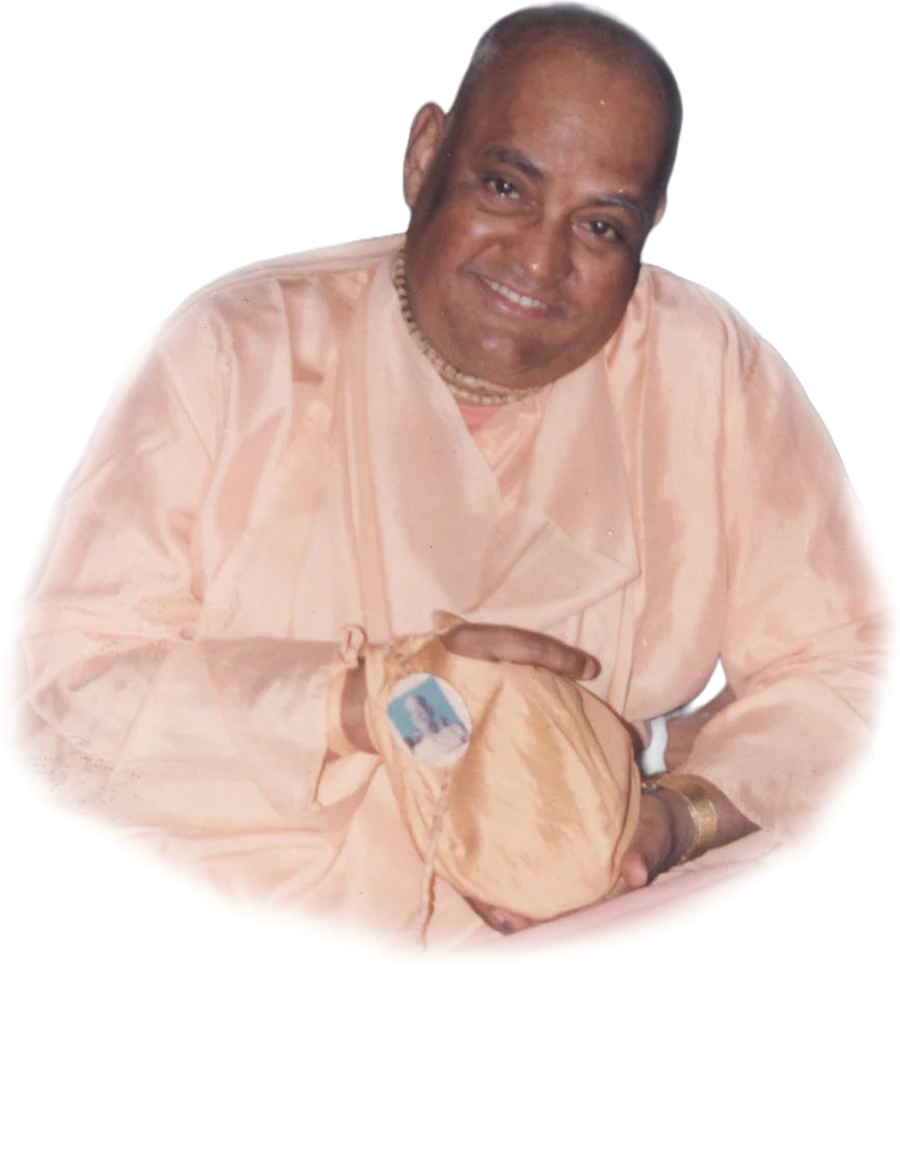
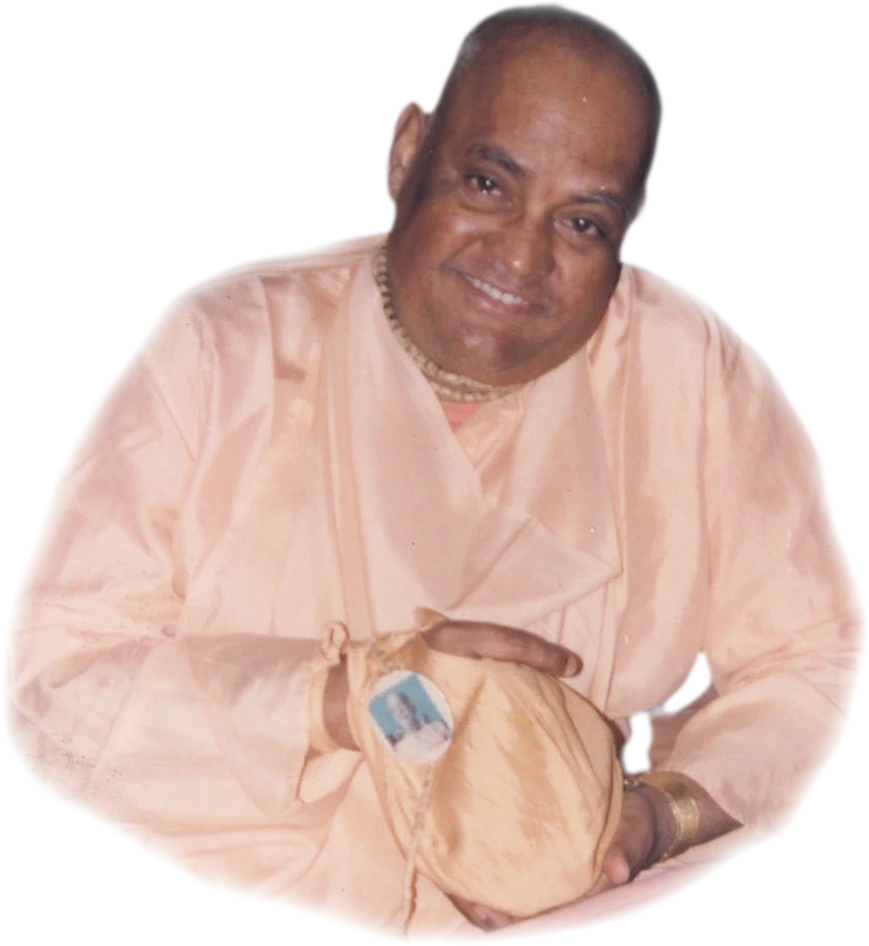
Home: light blessing section with full conversation and letter; cleaner cut-outs; shared Prabhupada texts
Claude-Session: https://claude.ai/code/session_01M9BBQeXddFLEpid5KwEKJu

diff --git a/src/components/home-client.tsx b/src/components/home-client.tsx
@@ -3,6 +3,7 @@ import Link from "next/link";
 import { useRouter } from "next/navigation";
 import { useEffect, useRef, useState } from "react";
 import { ArrowRight, Search, Play, Pause, ChevronLeft, ChevronRight, Headphones, Quote as QuoteIcon, Copy, Check, PlayCircle } from "lucide-react";
+import { CONVERSATION, LETTER } from "@/lib/prabhupada";
 import { DIARY, IMG, LANGUAGES, QUOTE_OF_DAY, TIMELINE } from "@/lib/data";
 import { Img } from "./img";
 import { CutOut, Orn, Padma, PaisleyField, Petals, Rosette, LogoMark } from "./motifs";
@@ -275,37 +276,46 @@ export function WavePlayer() {
 }
 
 /* ------------------------------------------------------------ Blessing */
+const hl = (t: string) => t.split(/(«[^»]+»)/).map((x, k) => x.startsWith("«") ? <mark key={k} className="rounded bg-[#f6d58e]/70 px-1 font-semibold text-ink">{x.slice(1, -1)}</mark> : <span key={k}>{x}</span>);
+
 export function Blessing() {
   return (
-    <div className="relative overflow-hidden rounded-[28px] border border-[#e8b872]/30 bg-[#3d0f08] text-white shadow-[var(--shadow-lg)]">
-      <Backdrop src="red-gold-mandala" o={0.4} />
-      <div className="absolute inset-0 bg-[radial-gradient(ellipse_at_50%_45%,rgba(61,15,8,0.1),rgba(61,15,8,0.8))]" />
-      <div className="relative grid items-end gap-4 px-5 pt-12 lg:grid-cols-[minmax(0,0.8fr)_minmax(0,1.5fr)_minmax(0,0.8fr)] lg:px-10">
+    <div className="relative overflow-hidden rounded-[28px] border border-line bg-gradient-to-b from-white via-[#fffaf0] to-[#fdf1d9] shadow-[var(--shadow-md)]">
+      <Backdrop src="cream-mandala" o={0.35} pos="center" />
+      <div className="relative grid items-end gap-2 px-5 pt-10 lg:grid-cols-[minmax(0,0.9fr)_minmax(0,1.4fr)_minmax(0,0.9fr)] lg:px-10">
         <div className="order-2 hidden self-end lg:order-1 lg:block">
-          <CutOut src="/legacy/prabhupada.webp" alt="Śrīla A.C. Bhaktivedanta Swami Prabhupāda" fade={0} className="mx-auto w-[88%] drop-shadow-[0_14px_26px_rgba(0,0,0,0.45)]" />
+          <CutOut src="/legacy/prabhupada.webp" alt="Śrīla A.C. Bhaktivedanta Swami Prabhupāda" fade={0} className="mx-auto w-[96%] drop-shadow-[0_10px_18px_rgba(90,40,0,0.25)]" />
         </div>
-        <div className="order-1 pb-12 text-center lg:order-2">
-          <p className="text-[11px] font-semibold uppercase tracking-[0.18em] text-[#f3d9a4]">Śrīla Prabhupāda on Śrīla Gurudeva</p>
-          <QuoteIcon className="mx-auto mt-5 text-[#e8b872]" size={28} />
-          <p className="mt-3 text-balance text-[38px] font-semibold leading-[1.3] tracking-tight sm:text-[52px]">“Kṛṣṇa sent him.”</p>
-          <p className="mt-3 text-[13px] text-[#f3d9a4]">Room conversation, Bombay, 5 January 1977</p>
-          <div className="mx-auto mt-8 grid max-w-2xl gap-3 text-left sm:grid-cols-3">
-            {[
-              ["Just think that Krishna is with you and there is no need of disappointment.", "Letter, Māyāpur, 12 February 1976"],
-              ["Krishna will help you. You have my full blessings and you try your best and you will be successful.", "Letter, Māyāpur, 12 February 1976"],
-              ["Krishna is so kind, He is always ready to help.", "Letter, Māyāpur, 12 February 1976"],
-            ].map(([q, src]) => (
-              <figure key={q} className="rounded-2xl border border-white/15 bg-white/[0.07] p-4 backdrop-blur-sm">
-                <blockquote className="text-[13.5px] leading-snug text-white/95">“{q}”</blockquote>
-                <figcaption className="mt-2.5 text-[11.5px] text-[#f3d9a4]">{src}</figcaption>
-              </figure>
-            ))}
-          </div>
-          <Link href="/gurudeva/srila-prabhupada" className="mt-7 inline-flex items-center gap-1.5 rounded-full bg-[#e8b872] px-5 py-2 text-[13.5px] font-semibold text-[#3d0f08] transition hover:bg-[#f3d9a4]">Read the conversation and the letter <ArrowRight size={15} /></Link>
+        <div className="order-1 pb-10 text-center lg:order-2">
+          <p className="text-[11px] font-semibold uppercase tracking-[0.18em] text-saffron">Śrīla Prabhupāda on Śrīla Gurudeva</p>
+          <p className="mt-4 text-balance text-[40px] font-semibold leading-[1.25] tracking-tight text-ink sm:text-[54px]">“Kṛṣṇa sent him.”</p>
+          <p className="mt-2 text-[13px] text-ink-3">Room conversation, Bombay, 5 January 1977</p>
+          <p className="mx-auto mt-6 max-w-md text-[15px] leading-relaxed text-ink-2">“Just think that Krishna is with you and there is no need of disappointment.” “Krishna will help you.” “Krishna is so kind, He is always ready to help.”</p>
+          <p className="mt-2 text-[13px] text-ink-3">Letter, Māyāpur, 12 February 1976</p>
         </div>
         <div className="order-3 self-end">
-          <CutOut src="/legacy/gurudeva.webp" alt="Śrīla Gour Govinda Swāmī" fade={0} className="mx-auto w-[80%] max-w-[330px] lg:w-[96%]" />
+          <CutOut src="/legacy/gurudeva.webp" alt="Śrīla Gour Govinda Swāmī" fade={0} className="mx-auto w-[80%] max-w-[330px] drop-shadow-[0_10px_18px_rgba(90,40,0,0.2)] lg:w-[100%]" />
         </div>
+      </div>
+      <div className="relative grid gap-5 border-t border-line bg-white/70 p-5 backdrop-blur-sm sm:p-8 lg:grid-cols-2">
+        <section>
+          <h3 className="text-[16px] font-semibold">{CONVERSATION.title}</h3>
+          <p className="mb-3 mt-0.5 text-[12px] text-ink-3">{CONVERSATION.speakers}</p>
+          <div className="rounded-2xl border border-line bg-surface">
+            {CONVERSATION.lines.map(([who, line], k) => (
+              <p key={k} className="border-b border-line px-4 py-2.5 text-[13.5px] leading-relaxed text-ink-2 last:border-0"><span className={`mr-1.5 font-semibold ${who === "Prabhupāda" ? "text-saffron" : "text-ink"}`}>{who}:</span>{hl(line)}</p>
+            ))}
+          </div>
+        </section>
+        <section>
+          <h3 className="text-[16px] font-semibold">{LETTER.title}</h3>
+          <p className="mb-3 mt-0.5 text-[12px] text-ink-3">Letter {LETTER.ref}</p>
+          <article className="space-y-3 rounded-2xl border border-line bg-surface p-5 text-[13.5px] leading-relaxed text-ink-2">
+            <p>{LETTER.salutation}</p>
+            {LETTER.paras.map((t, k) => <p key={k}>{hl(t)}</p>)}
+            <p className="text-ink-3">{LETTER.closing[0]}<br />{LETTER.closing[1]}<br /><span className="text-[12px]">{LETTER.closing[2]}</span></p>
+          </article>
+        </section>
       </div>
     </div>
   );

diff --git a/src/app/(site)/gurudeva/srila-prabhupada/page.tsx b/src/app/(site)/gurudeva/srila-prabhupada/page.tsx
@@ -4,24 +4,8 @@ import { CutOut } from "@/components/motifs";
 
 export const metadata = { title: "Śrīla Prabhupāda on Śrīla Gurudeva" };
 
-const CONV: [string, string][] = [
-  ["Prabhupāda", "And we have got one gentleman, professor. He is good learned scholar. I can engage him for translating."],
-  ["Gopāla Kṛṣṇa", "Oriya. Very nice."],
-  ["Prabhupāda", "He is writing like machine. I can see the manuscript. In this way, arrangement like that."],
-  ["Gopāla Kṛṣṇa", "Very good. We just printed two books in Oriya: Topmost Yoga and one more."],
-  ["Prabhupāda", "He likes Oriya language."],
-  ["Gopāla Kṛṣṇa", "Who? Gaura-Govinda Swami? He is very sincere devotee."],
-  ["Prabhupāda", "Oh, yes. Undoubtedly."],
-  ["Gopāla Kṛṣṇa", "Very sincere."],
-  ["Prabhupāda", "Kṛṣṇa sent him. He... In Vṛndāvana, he said that “Please give me shelter.” I thought that “There are so many Indian comes and go.” So when he insisted, “All right, you stay.” [chuckles]"],
-  ["Hari-śauri", "Yeah. He took sannyāsa at the opening of the temple. I remember that."],
-  ["Prabhupāda", "He's a good boy."],
-  ["Hari-śauri", "He's stuck it out for a long time in Orissa. He's been there a long time, by himself a lot of the time too."],
-  ["Prabhupāda", "Yes. Yes. He's organizing nicely."],
-  ["Gopāla Kṛṣṇa", "He's very sincere. He follows all the regulations very rigidly. He gets up in the morning. Ideal example."],
-  ["Jagadīśa", "He understands the philosophy quite well."],
-  ["Prabhupāda", "Oh, yes. And he is educated. He is B.Sc."],
-];
+import { CONVERSATION as C, LETTER as L } from "@/lib/prabhupada";
+const hl = (t: string) => t.split(/(«[^»]+»)/).map((x, k) => x.startsWith("«") ? <mark key={k} className="rounded bg-[#f6d58e]/70 px-1 font-semibold text-ink">{x.slice(1, -1)}</mark> : <span key={k}>{x}</span>);
 
 export default function Page() {
   return (
@@ -30,26 +14,21 @@ export default function Page() {
         aside={<CutOut src="/legacy/prabhupada.webp" alt="Śrīla A.C. Bhaktivedanta Swami Prabhupāda" fade={0} className="mx-auto hidden w-64 lg:block" />} />
       <Container className="max-w-3xl py-14">
         <section>
-          <div className="flex items-center gap-3"><QuoteIcon className="text-saffron" size={20} /><h2 className="text-[22px]">Room conversation, 5 January 1977, Bombay</h2></div>
-          <p className="mt-1 text-[13px] text-ink-3">Speakers: Śrīla Prabhupāda, Gopāla Kṛṣṇa, Hari-śauri, Jagadīśa.</p>
+          <div className="flex items-center gap-3"><QuoteIcon className="text-saffron" size={20} /><h2 className="text-[22px]">{C.title}</h2></div>
+          <p className="mt-1 text-[13px] text-ink-3">Speakers: {C.speakers}.</p>
           <div className="card mt-5 divide-y divide-line">
-            {CONV.map(([who, line], i) => (
-              <p key={i} className={`px-5 py-3 text-[15px] leading-relaxed ${who === "Prabhupāda" ? "bg-saffron-tint" : ""}`}><span className={`mr-2 font-semibold ${who === "Prabhupāda" ? "text-saffron" : "text-ink-2"}`}>{who}:</span>{line}</p>
+            {C.lines.map(([who, line], i) => (
+              <p key={i} className="px-5 py-3 text-[15px] leading-relaxed"><span className={`mr-2 font-semibold ${who === "Prabhupāda" ? "text-saffron" : "text-ink-2"}`}>{who}:</span>{hl(line)}</p>
             ))}
           </div>
         </section>
         <section className="mt-14">
-          <div className="flex items-center gap-3"><Mail className="text-saffron" size={20} /><h2 className="text-[22px]">Letter to Gaura Govinda, 12 February 1976, Māyāpur</h2></div>
-          <p className="mt-1 text-[13px] text-ink-3">Letter 76-02-12 · addressed to Bhuvaneśvara</p>
+          <div className="flex items-center gap-3"><Mail className="text-saffron" size={20} /><h2 className="text-[22px]">{L.title}</h2></div>
+          <p className="mt-1 text-[13px] text-ink-3">Letter {L.ref}</p>
           <article className="card mt-5 space-y-4 p-6 text-[15.5px] leading-relaxed text-ink-2">
-            <p>My dear Gaura Govinda Swami,</p>
-            <p>Please accept my blessings. I beg to acknowledge receipt of your letter dated 8 February 1976.</p>
-            <p>It is very good that you have completed one cottage. We are trying to send one man, but in the meantime just think that <mark className="rounded bg-saffron-tint px-1 text-ink">Krishna is with you and there is no need of disappointment.</mark></p>
-            <p>Now that you have your cottage, you may remain there and <mark className="rounded bg-saffron-tint px-1 text-ink">Krishna will help you. You have my full blessings</mark> and you try your best and you will be successful. There is no need of coming to Mayapur now. If you can come for the festival, that will be nice, but it is not compulsory.</p>
-            <p>If you are not getting reply from Gopala Krishna then you may write direct to me. I am also writing Saurabha to send you a plan.</p>
-            <p>If you publish some book in Oriyan language, that book will give you good support. So now you have an opportunity, you are there and Krishna will help. Gradually we will help. <mark className="rounded bg-saffron-tint px-1 text-ink">Krishna is so kind, He is always ready to help.</mark> “dadami buddhi-yogam tam yena mam upayanti te.”</p>
-            <p>I hope this meets you well.</p>
-            <p className="text-ink-3">Your ever well-wisher,<br />A.C. Bhaktivedanta Swami<br /><span className="text-[12.5px]">ACBS/dda</span></p>
+            <p>{L.salutation}</p>
+            {L.paras.map((t, i) => <p key={i}>{hl(t)}</p>)}
+            <p className="text-ink-3">{L.closing[0]}<br />{L.closing[1]}<br /><span className="text-[12.5px]">{L.closing[2]}</span></p>
           </article>
         </section>
       </Container>

diff --git a/src/lib/prabhupada.ts b/src/lib/prabhupada.ts
@@ -1,0 +1,38 @@
+/** Śrīla Prabhupāda on Śrīla Gurudeva: full texts. «…» marks the lines to highlight. */
+export const CONVERSATION = {
+  title: "Room conversation, 5 January 1977, Bombay",
+  speakers: "Śrīla Prabhupāda, Gopāla Kṛṣṇa, Hari-śauri, Jagadīśa",
+  lines: [
+    ["Prabhupāda", "And we have got one gentleman, professor. He is good learned scholar. I can engage him for translating."],
+    ["Gopāla Kṛṣṇa", "Oriya. Very nice."],
+    ["Prabhupāda", "He is writing like machine. I can see the manuscript. In this way, arrangement like that."],
+    ["Gopāla Kṛṣṇa", "Very good. We just printed two books in Oriya: Topmost Yoga and one more."],
+    ["Prabhupāda", "He likes Oriya language."],
+    ["Gopāla Kṛṣṇa", "Who? Gaura-Govinda Swami? He is very sincere devotee."],
+    ["Prabhupāda", "Oh, yes. Undoubtedly."],
+    ["Gopāla Kṛṣṇa", "Very sincere."],
+    ["Prabhupāda", "«Kṛṣṇa sent him.» He... In Vṛndāvana, he said that “Please give me shelter.” I thought that “There are so many Indian comes and go.” So when he insisted, “All right, you stay.” [chuckles]"],
+    ["Hari-śauri", "Yeah. He took sannyāsa at the opening of the temple. I remember that."],
+    ["Prabhupāda", "He's a good boy."],
+    ["Hari-śauri", "He's stuck it out for a long time in Orissa. He's been there a long time, by himself a lot of the time too."],
+    ["Prabhupāda", "Yes. Yes. «He's organizing nicely.»"],
+    ["Gopāla Kṛṣṇa", "He's very sincere. He follows all the regulations very rigidly. He gets up in the morning. Ideal example."],
+    ["Jagadīśa", "He understands the philosophy quite well."],
+    ["Prabhupāda", "Oh, yes. And he is educated. He is B.Sc."],
+  ] as [string, string][],
+};
+
+export const LETTER = {
+  title: "Letter to Gaura Govinda, 12 February 1976, Māyāpur",
+  ref: "76-02-12 · addressed to Bhuvaneśvara",
+  salutation: "My dear Gaura Govinda Swami,",
+  paras: [
+    "Please accept my blessings. I beg to acknowledge receipt of your letter dated 8 February 1976.",
+    "It is very good that you have completed one cottage. We are trying to send one man, but in the meantime just think that «Krishna is with you and there is no need of disappointment.»",
+    "Now that you have your cottage, you may remain there and «Krishna will help you. You have my full blessings and you try your best and you will be successful.» There is no need of coming to Mayapur now. If you can come for the festival, that will be nice, but it is not compulsory.",
+    "If you are not getting reply from Gopala Krishna then you may write direct to me. I am also writing Saurabha to send you a plan.",
+    "If you publish some book in Oriyan language, that book will give you good support. So now you have an opportunity, you are there and Krishna will help. Gradually we will help. «Krishna is so kind, He is always ready to help.» “dadami buddhi-yogam tam yena mam upayanti te.”",
+    "I hope this meets you well.",
+  ],
+  closing: ["Your ever well-wisher,", "A.C. Bhaktivedanta Swami", "ACBS/dda"],
+};
